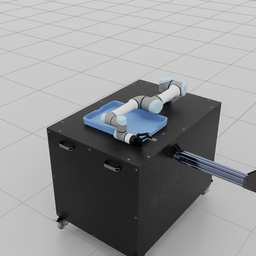
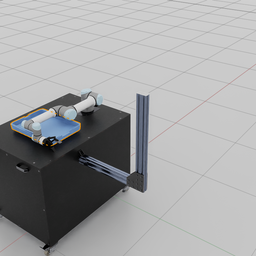
Changed height of camera to 1.85

diff --git a/ur5e_sdg_script.py b/ur5e_sdg_script.py
@@ -88,7 +88,7 @@ def main():
         # Randomize camera properties
         with cam:
             rep.modify.pose(
-                position=rep.distribution.uniform((0.97, -0.03, 1.82), (1.03, 0.03, 1.88)),
+                position=rep.distribution.uniform((1, 0, 1.85), (1, 0, 1.85)),
                 rotation=rep.distribution.uniform((0, -50, 0), (0, -50, 0))) # ZYX rotation where frames rotate with the sequence!
 
         # Randomize object properties
